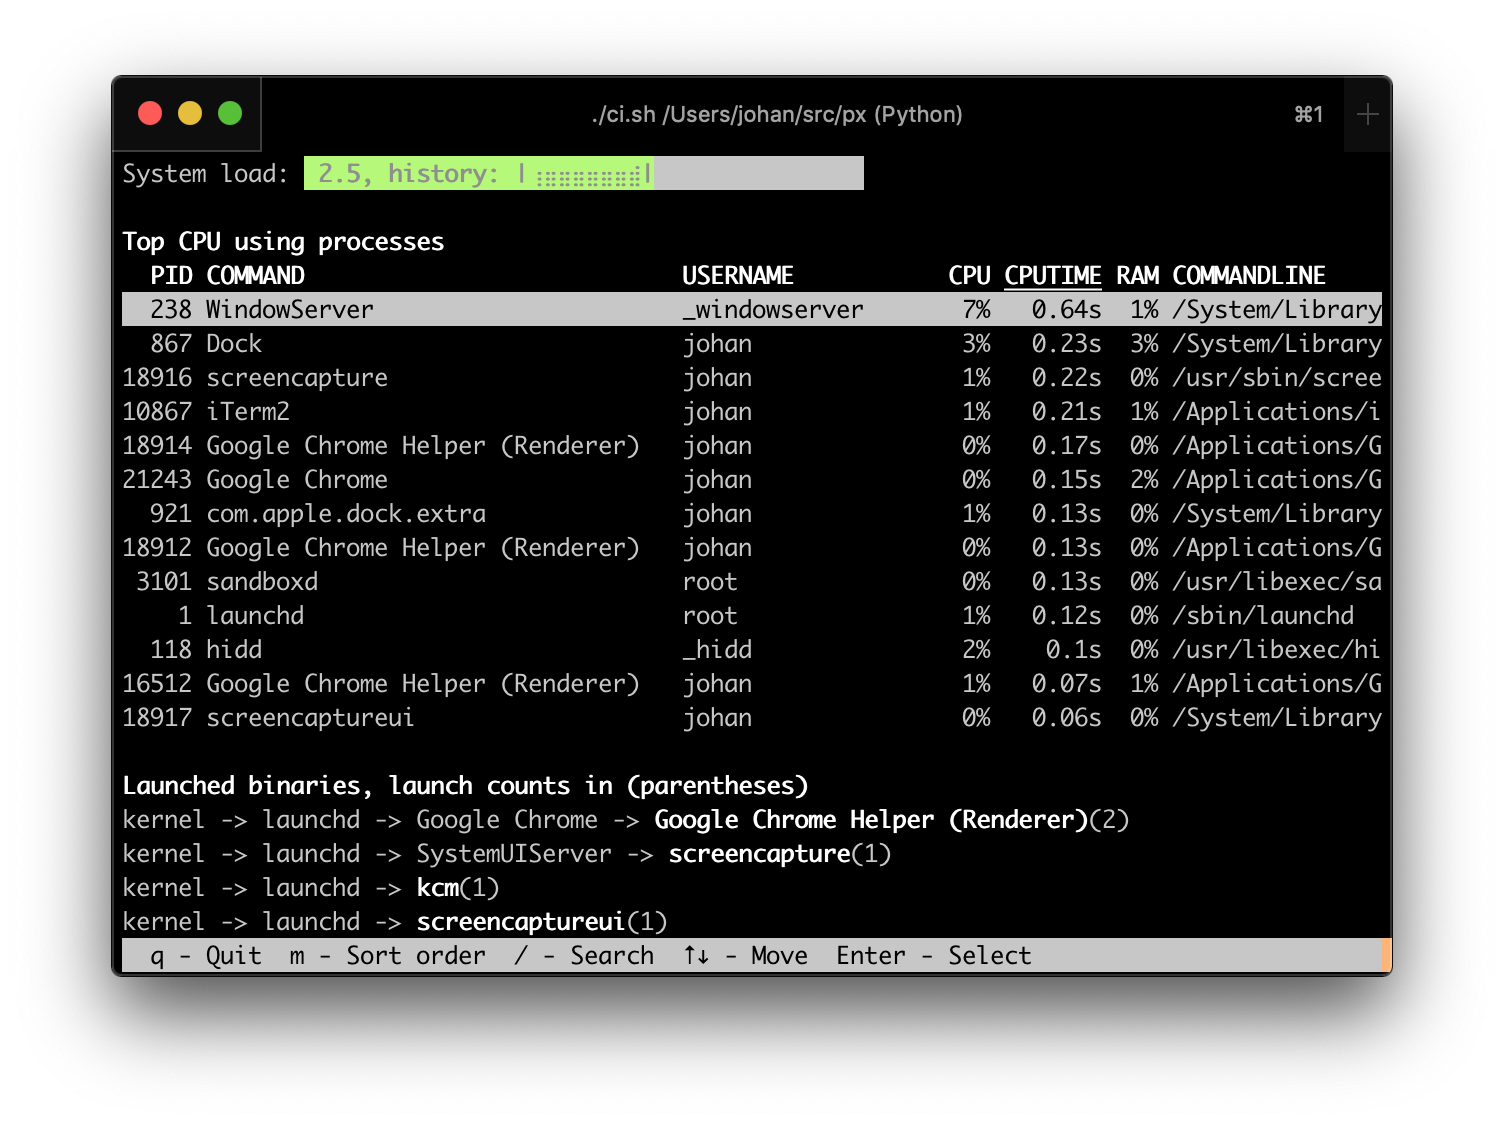
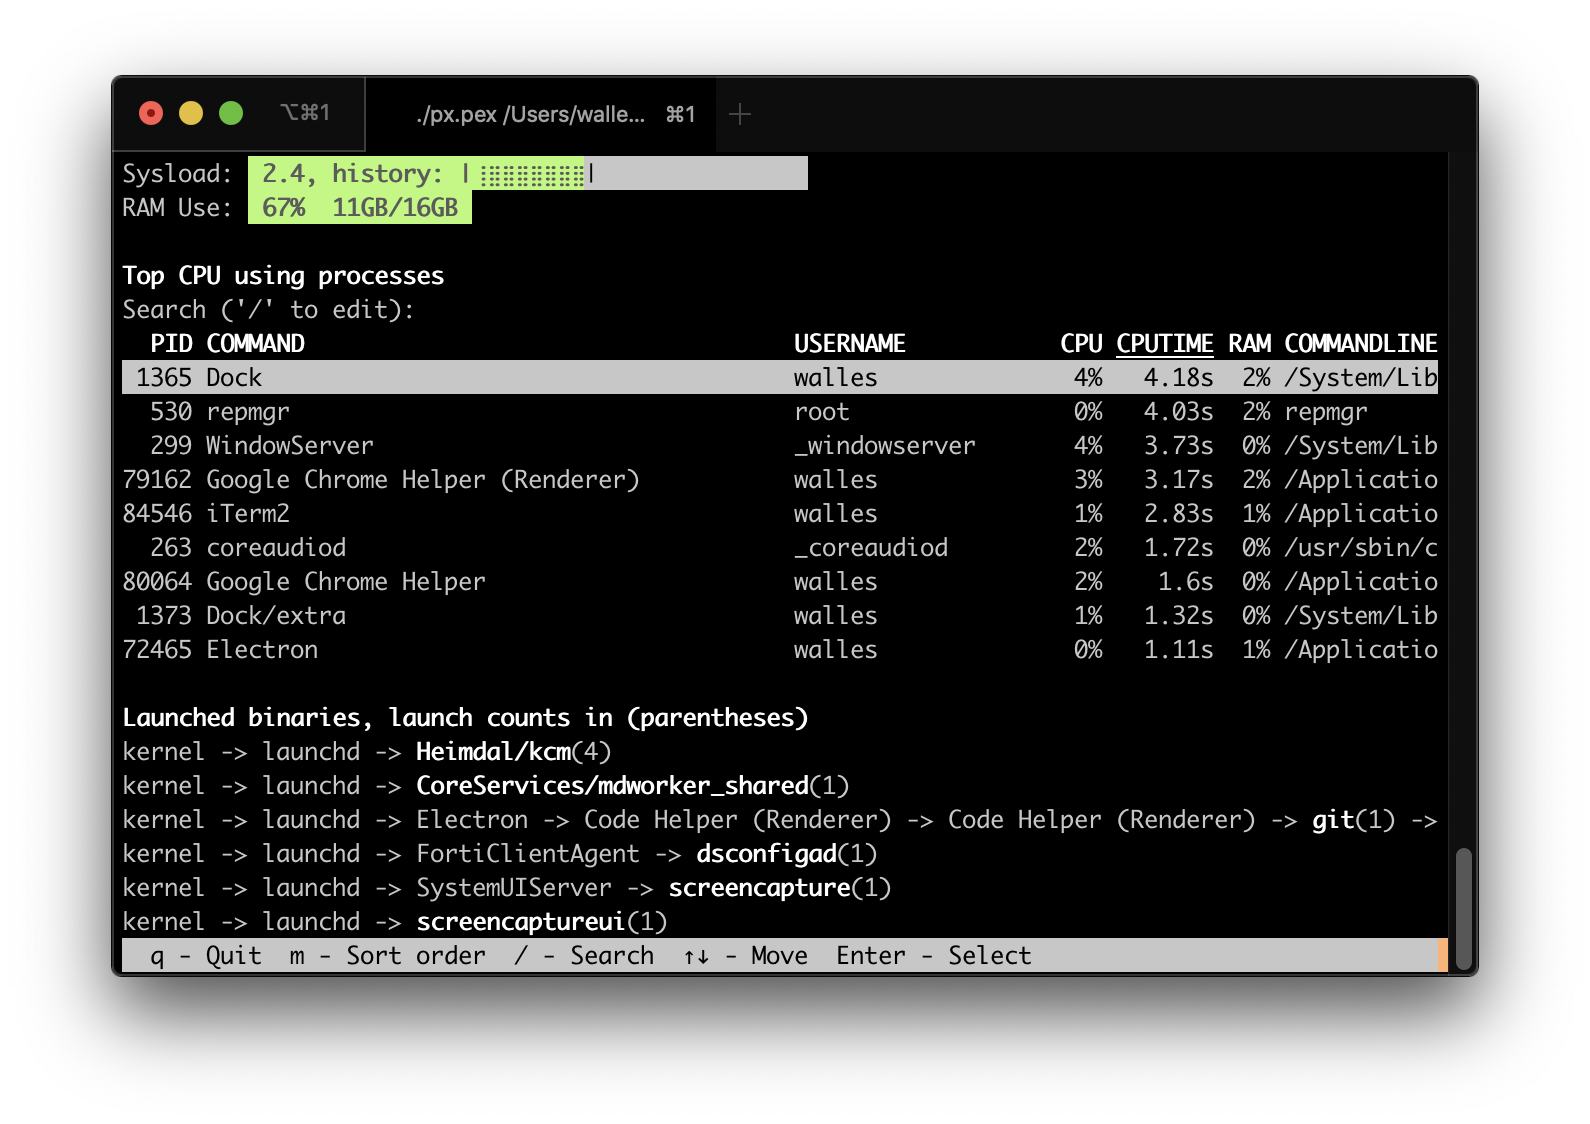
Add RAM meter to screenshot

Changed region(s): [[0.0625, 0.0623, 0.9375, 0.8719], [0.8438, 0.0934, 0.875, 0.1246]]

diff --git a/README.rst b/README.rst
@@ -173,8 +173,8 @@ information; the command will work without it but might miss some information.
 * Note how the default sort order of CPU-usage-since-``ptop``-started makes the
   display rather stable.
 * Note the system load bar that correlates the system load with the number of
-  CPU cores in the system. Green is load handled by physical cores, yellow
-  (not shown here) is load handled by hyperthreading cores, and red is load
+  CPU cores in the system. **Green** is load handled by physical cores, **yellow**
+  (not shown here) is load handled by hyperthreading cores, and **red** is load
   over the number of cores.
 * Note the fifteen minute load history graph in the load bar. On this system the
   load has been high for the last fifteen minutes. This is a visualization of
